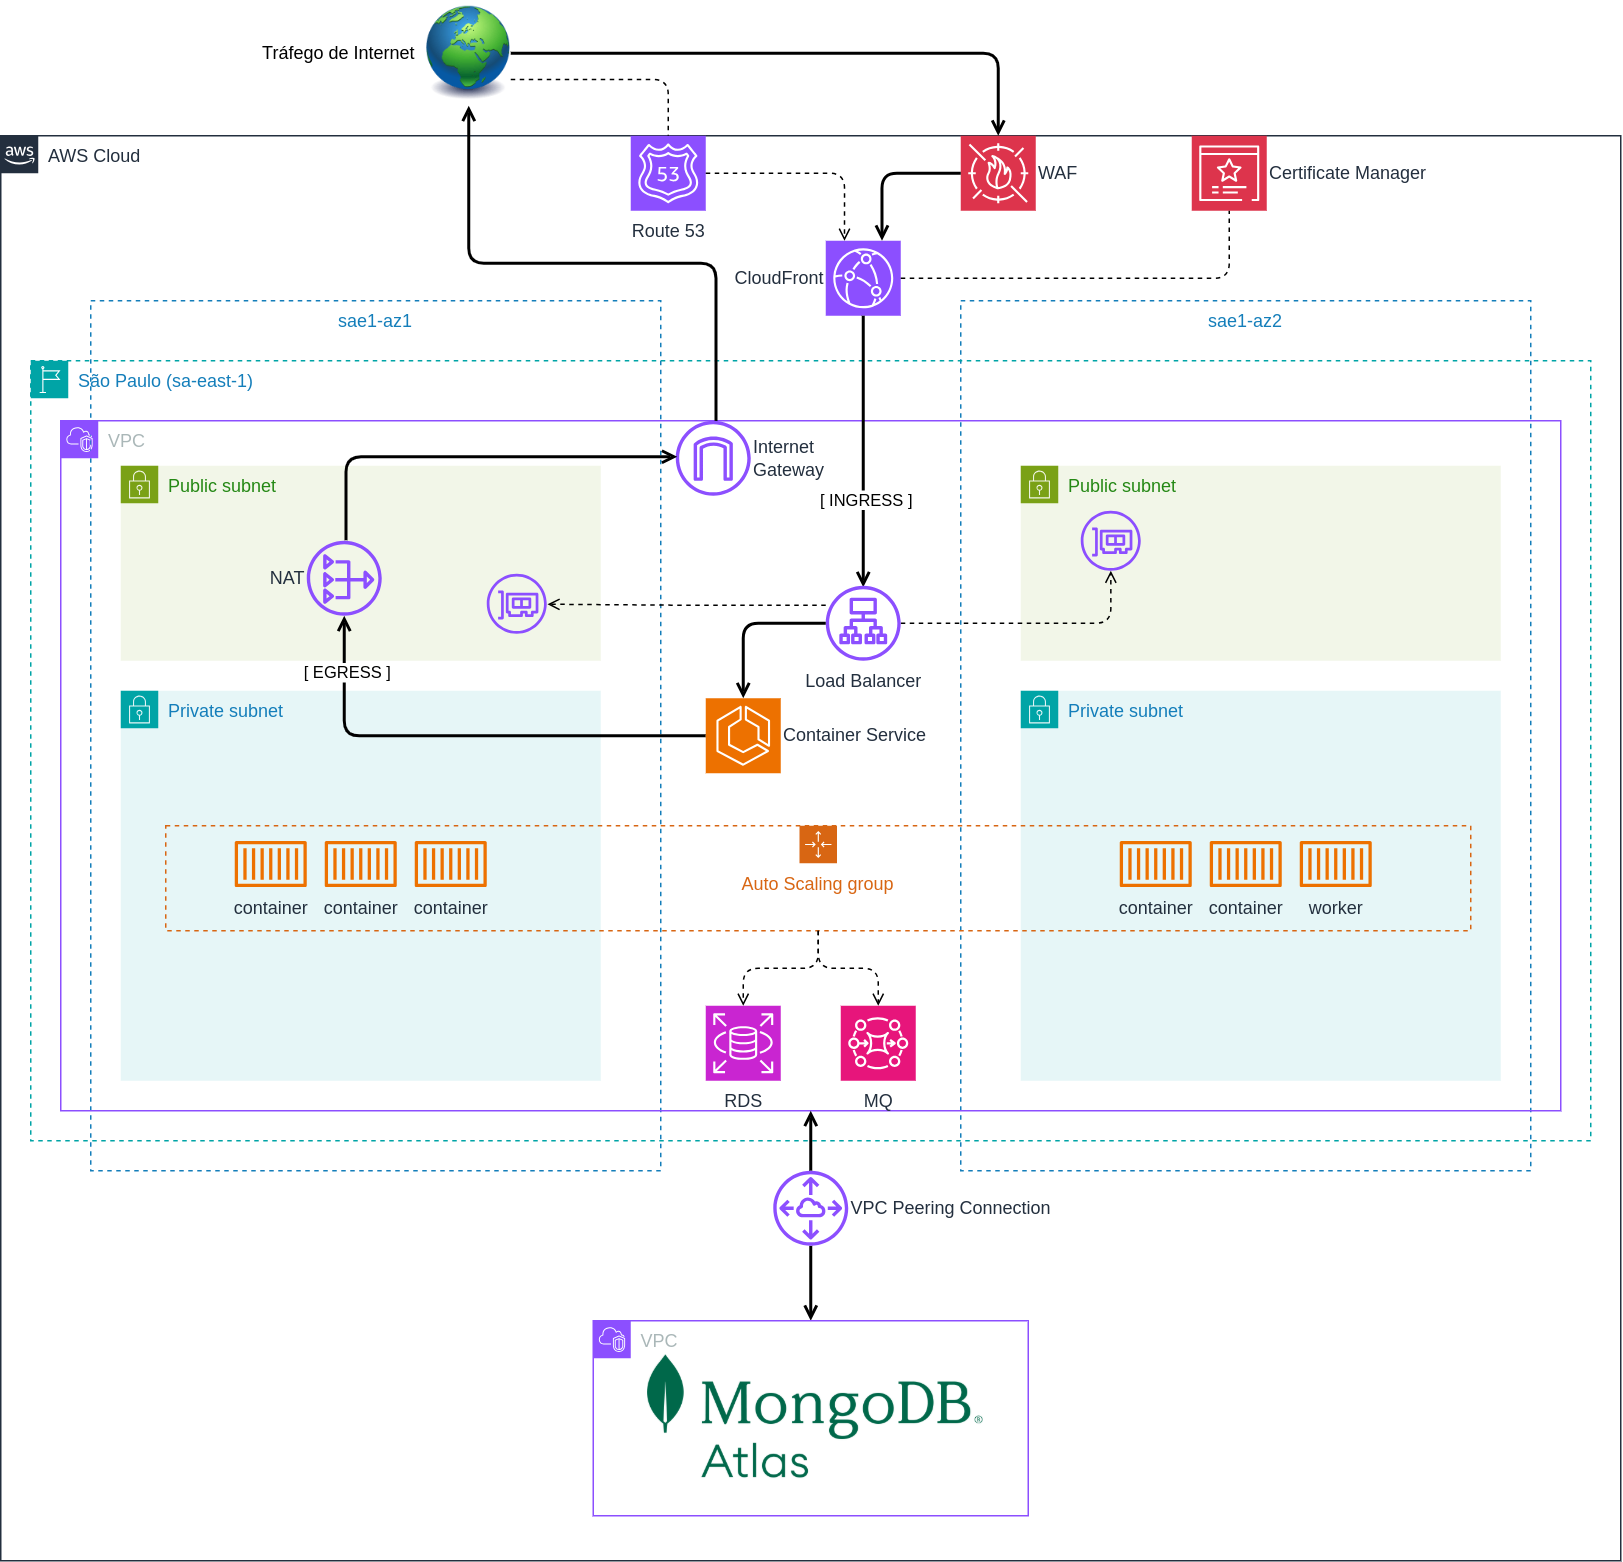
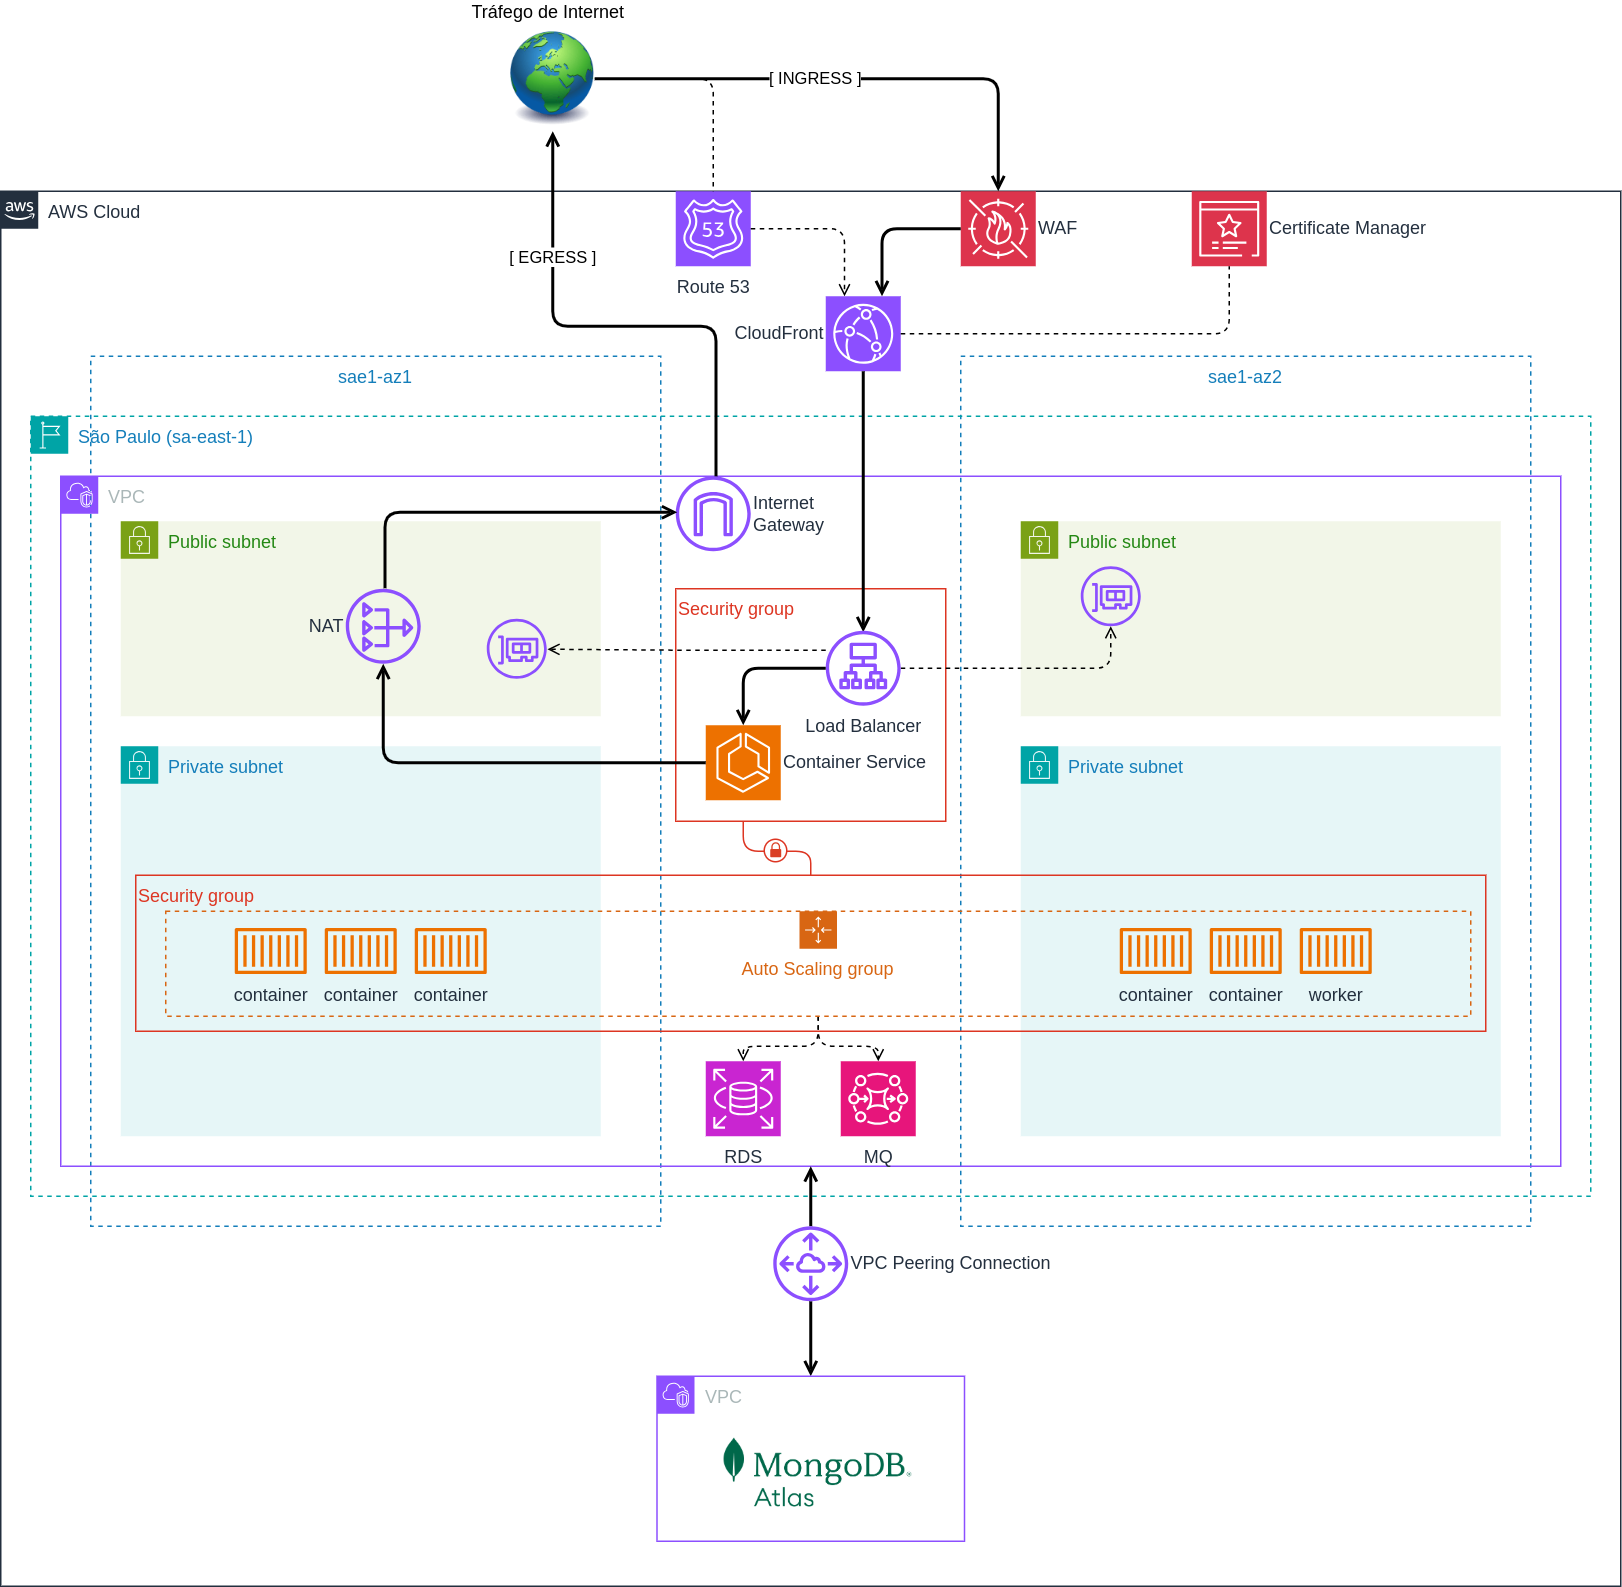
Revisa design doc

diff --git a/docs/design-doc.md b/docs/design-doc.md
@@ -21,7 +21,7 @@ Será construída uma solução para *Fluxo de Caixa* que contenha:
   de negócio do lado do servidor e manterá os dados em um banco não relacional.
 
 - O cálculo dos dados para o relatório consolidado será feito por um serviço
-  executando em segundo e de forma independente da API Web. A comunicação
+  executando em segundo plano e de forma independente. A comunicação
   entre esses componentes será feita através de um mecanismo assíncrono de
   mensagens.
 
@@ -39,7 +39,7 @@ Abaixo temos uma ideia geral dos componentes da solução e a interação entre 
 
 ## Detalhes da solução
 
-Serão construídos os seguintes casos de uso:
+Devem ser implementados os seguintes casos de uso:
 
 ![](images/casos-de-uso.png)
 
@@ -49,9 +49,8 @@ Serão construídos os seguintes casos de uso:
 
 O usuário não se autenticará diretamente na aplicação web, ao invés disso a
 mesma irá redirecionar o usuário para se autenticar no serviço de identidade
-[Keycloak][KEYCLOAK], que cuidará de toda a parte de segurança para autenticar
-corretamente o usuário, e ao final redirecioná-lo já autenticado para a
-aplicação.
+[Keycloak][KEYCLOAK], que cuidará de toda a parte de segurança para validar
+corretamente a identidade do usuário, e ao final redirecioná-lo para a aplicação.
 
 ### Registrar lançamento
 
@@ -94,10 +93,10 @@ um dia específico. Não iremos fazer o cálculo do saldo consolidado em tempo d
 consulta por questões de _performance_. Ao invés disso, o usuário deve informar
 o dia que deseja ver o saldo consolidado, e uma entrada será criada para indicar
 isso, porém o saldo permanecerá pendente até que seja calculado de fato por um
-serviço em execução em segundo plano.
+serviço em segundo plano.
 
 O serviço saberá o que calcular através de mensagens recebidas da Web API
-através de fila em um [_broker de mensagens_][MESSAGE_BROKER].
+via fila em um [_broker de mensagens_][MESSAGE_BROKER].
 
 ### Visualizar consolidação diária
 
@@ -117,25 +116,28 @@ situação para que aguarde e tente visualizar novamente mais tarde.
 
 ### Diagrama de infraestrutura na AWS
 
-Usaremos os recursos das núvens públicas para complementar os requisitos de
-segurança, escalabilidade e redudância que precisamos.
+Usaremos os recursos da núven pública da [AWS][AWS] para atender os requisitos
+de segurança, escalabilidade e redudância que precisamos. No diagrama abaixo
+temos um exemplo de como se daria aessa implantação.
 
-No diagrama abaixo temos um exemplo de como se daria a implantação na nuvem
-da [AWS][AWS]. Mas o mesmo se aplica em outras nuvens como [GCP][GCP] ou [OCI][OCI].
+Vale ressaltar que escolhemos [AWS][AWS] por conveniência, mas o mesmo se aplica
+em outras nuvens como [GCP][GCP], [Azure][AZURE] ou [OCI][OCI] com algumas
+poucas mudanças.
 
 ![](images/infraestrutura-aws.png)
 
 No diagrama podemos ver principalmente como aplicamos as restrições de segurança
 quanto ao tráfego de entrada permitido. Combinamosm um _Web Application Firewall_
 e o _CloudFront_ para garantir a proteção contra ataques e a segurança do
-tráfego criptografado com _SSL/HTTPS_.
+tráfego criptografado com _TLS/HTTPS_.
 
 Um _Load Balancer_ se comunica com o _Container Service_ em conjunto com grupos
 de _auto scalling_ para entregar as demandas requisitadas, e escalar
 horizontalmente nossos _containers_ com base na necessidade.
 
 Nossas aplicações reais estão protegidas em redes privadas, e o tráfego ao mundo
-externo é controlado através de configurações de NAT.
+externo é controlado através de configurações de NAT e rígidos grupos de
+segurança.
 
 Aqui nós substituímos nossos containers de bancos relacionais (Keycloak DB) pelo
 serviço gerenciado compatível, e o mesmo ocorre para filas do _RabbitMQ_, e
@@ -169,15 +171,24 @@ a requisitos regulatórios de uso de dados em território nacional apenas.
   através de outros componentes que não estão presentes em código de aplicativo.
   Tais como WAF para proteção contra ataques, balanceamento de carga e múltiplas
   regiões de implantação para alta disponibilidade.
-- Usamos um banco [MongoDB][MONGODB] compartilhado entre a Web API e o _worker_ Consolidado
-  por questões de prazo, mas em uma situação ideal cada um usaria sua base e
-  fariamos a sincronização também através de mensagens com serviços _side car_.
+- Usamos um banco [MongoDB][MONGODB] compartilhado entre a Web API e o _worker_
+  Consolidado por questões de prazo, mas em uma situação ideal cada serviço usaria
+  sua própria base e fariamos a sincronização através de mensagens com serviços
+  lado a lado (_side car_).
 - Por questões de prazo não otimizamos a _interface do usuário_ para experiência.
   O aguardar a geração do relatório pode exigir atualização explícita de tela, o
-  que não é recomendado em um caso real. Nessas situações usaríamos o protocolo
-  [_Web Socket_][WEBSOCKET] para atualizar a _interface do usuário_ em tempo
-  real, de acordo com o relatório seja gerado.
-
+  que não é bom para o usuário em um caso real. Nessas situações usaríamos o
+  protocolo [_Web Socket_][WEBSOCKET] para atualizar a _interface do usuário_
+  em tempo real, de acordo com que o relatório esteja sendo gerado, a aqui
+  uma exibição de progresso cairia muito bem.
+- No exemplo da infraestrutura da solução na [AWS][AWS] não distinguimos recursos
+  específicos para aplicação de _frontend_, mas seria uma das melhorias a se
+  fazer, ou seja, servir os _frontends_ em serviços com suporte [_CDN_][CDN]
+  como _CloudFront_ ao invés de _containers_ regulares.
+- No exemplo da infraestrutura da solução na [AWS][AWS] também optamos pelo
+  serviço de gerenciamento de containers _ECS_ ao invés da plataforma de
+  orquestração [Kubernetes][KUBERNETES] pela simplicidade da aplicação, mas de
+  acordo com que a aplicação cresca talvez seja necessário migrar.
 
 <!-- links -->
 [OPENID_CONNECT]: https://openid.net/developers/how-connect-works
@@ -194,5 +205,10 @@ a requisitos regulatórios de uso de dados em território nacional apenas.
 [OCI]:
   <https://www.oracle.com/br/cloud/compute>
   "Oracle Cloud Infrastructure"
+[AZURE]:
+  <https://azure.microsoft.com/pt-br/>
+  "Serviços de nuvem do Microsoft Azure"  
 [WAF]: https://pt.wikipedia.org/wiki/Web_Application_Firewall
 [MONGODB_ATLAS]: https://www.mongodb.com/atlas
+[CDN]: https://en.wikipedia.org/wiki/Content_delivery_network
+[KUBERNETES]: https://kubernetes.io/pt-br/
